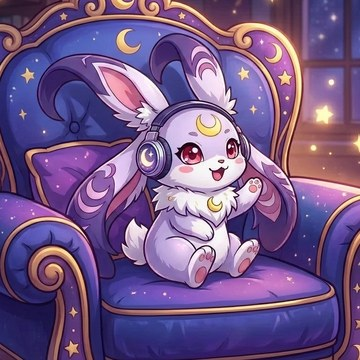
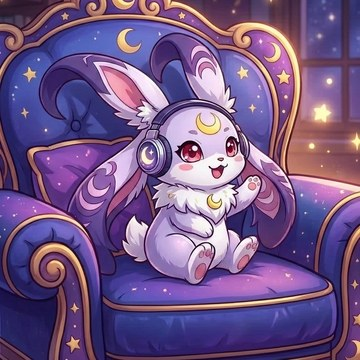
style(website): 收紧吉祥物裁切并去掉白边
角色图裁到圆角图标内部，CSS 用 22% 圆角裁掉源图留白，暗色页面上不再出现白边或白色圆角碎片。

diff --git a/website/index.html b/website/index.html
@@ -178,7 +178,7 @@
       position: relative;
       z-index: 1;
       width: min(100%, 420px);
-      border-radius: 34px;
+      border-radius: 22%;
       box-shadow: 0 30px 80px rgba(0, 0, 0, 0.55), 0 0 0 1px rgba(255, 255, 255, 0.08);
       transform: rotate(1.5deg);
     }
@@ -188,14 +188,14 @@
       right: 2%;
       bottom: 0;
       width: 112px;
-      border-radius: 26px;
+      border-radius: 22%;
       box-shadow: 0 18px 40px rgba(0, 0, 0, 0.5);
       transform: rotate(-6deg);
     }
     .sec-mascot {
       width: 88px;
       height: 88px;
-      border-radius: 22px;
+      border-radius: 22%;
       object-fit: cover;
       margin-bottom: 14px;
       box-shadow: 0 12px 32px rgba(0, 0, 0, 0.42);
@@ -204,7 +204,7 @@
       display: block;
       width: 56px;
       height: 56px;
-      border-radius: 14px;
+      border-radius: 22%;
       object-fit: cover;
       margin: 16px 0 0 auto;
       opacity: 0.92;
@@ -420,7 +420,7 @@
     .origin-box img {
       width: 112px;
       height: 112px;
-      border-radius: 26px;
+      border-radius: 22%;
       object-fit: cover;
       box-shadow: 0 16px 36px rgba(0, 0, 0, 0.42);
     }
